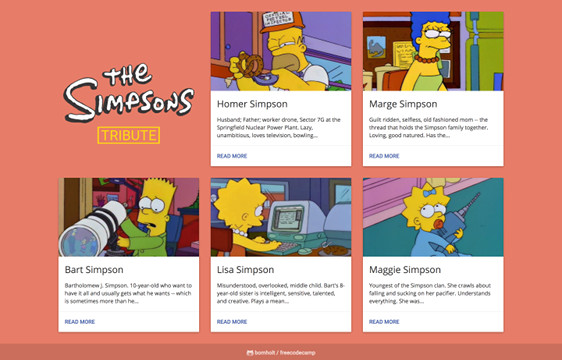
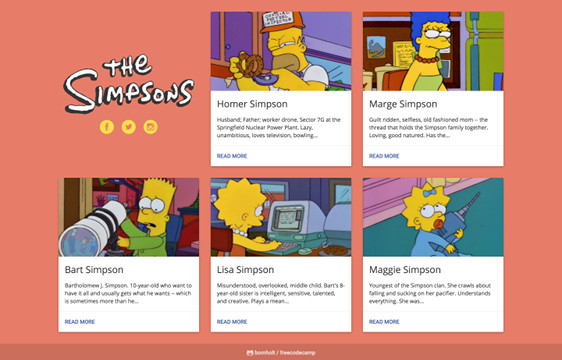
update Tribute Page

Changed region(s): [[0.0907, 0.1528, 0.363, 0.3972]]

diff --git a/basic_front_end_development_projects/tribute_page/index.html b/basic_front_end_development_projects/tribute_page/index.html
@@ -4,8 +4,8 @@
   <meta charset="UTF-8">
   <title>Tribute Page</title>
   <meta name="viewport" content="width=device-width, initial-scale=1, maximum-scale=1, user-scalable=no">
-  <link rel="stylesheet" href="https://rawgit.com/bomholt/freecodecamp/master/_assets/css/font-awesome.min.css">
-  <link rel="stylesheet" href="https://maxcdn.bootstrapcdn.com/bootstrap/3.3.6/css/bootstrap.min.css" integrity="sha384-1q8mTJOASx8j1Au+a5WDVnPi2lkFfwwEAa8hDDdjZlpLegxhjVME1fgjWPGmkzs7" crossorigin="anonymous">
+  <link rel="stylesheet" href="https://rawgit.com/bomholt/fcc/master/_assets/css/font-awesome.min.css">
+  <link rel="stylesheet prefetch" href="https://cdn.jsdelivr.net/bootstrap/3.3.6/css/bootstrap.min.css">
   <link rel="stylesheet" href="style.css">
 </head>
 <body>
@@ -15,7 +15,39 @@
       <!-- The Simpsons -->
       <div class="col-sm-6 col-md-4">
         <div class="duh">
-          <img class="img-responsive" src="https://rawgit.com/bomholt/freecodecamp/master/basic_front_end_development_projects/_assets/img/duh.png">
+          <img class="img-responsive" src="https://rawgit.com/bomholt/fcc/master/basic_front_end_development_projects/_assets/img/duh.png">
+        </div>
+        <div class="social-icons">
+          <ul>
+
+            <!-- Facebook -->
+            <li>
+              <a href="https://www.facebook.com/TheSimpsons" target="_blank" rel="noopener noreferrer">
+                <svg viewbox="0 0 67 67">
+                  <path d="M28.765,50.32h6.744V33.998h4.499l0.596-5.624h-5.095  l0.007-2.816c0-1.466,0.14-2.253,2.244-2.253h2.812V17.68h-4.5c-5.405,0-7.307,2.729-7.307,7.317v3.377h-3.369v5.625h3.369V50.32z   M33,64C16.432,64,3,50.569,3,34S16.432,4,33,4s30,13.431,30,30S49.568,64,33,64z"/>
+                </svg>
+              </a>
+            </li>
+
+            <!-- Twitter -->
+            <li>
+              <a href="https://twitter.com/TheSimpsons" target="_blank" rel="noopener noreferrer">
+                <svg viewbox="0 0 67 67">
+                  <path d="M37.167,22.283c-2.619,0.953-4.274,3.411-4.086,6.101  l0.063,1.038l-1.048-0.127c-3.813-0.487-7.145-2.139-9.974-4.915l-1.383-1.377l-0.356,1.017c-0.754,2.267-0.272,4.661,1.299,6.271  c0.838,0.89,0.649,1.017-0.796,0.487c-0.503-0.169-0.943-0.296-0.985-0.233c-0.146,0.149,0.356,2.076,0.754,2.839  c0.545,1.06,1.655,2.097,2.871,2.712l1.027,0.487l-1.215,0.021c-1.173,0-1.215,0.021-1.089,0.467  c0.419,1.377,2.074,2.839,3.918,3.475l1.299,0.444l-1.131,0.678c-1.676,0.976-3.646,1.526-5.616,1.568  C19.775,43.256,19,43.341,19,43.405c0,0.211,2.557,1.397,4.044,1.864c4.463,1.377,9.765,0.783,13.746-1.568  c2.829-1.673,5.657-5,6.978-8.221c0.713-1.716,1.425-4.851,1.425-6.354c0-0.975,0.063-1.102,1.236-2.267  c0.692-0.678,1.341-1.419,1.467-1.631c0.21-0.403,0.188-0.403-0.88-0.043c-1.781,0.636-2.033,0.551-1.152-0.402  c0.649-0.678,1.425-1.907,1.425-2.267c0-0.063-0.314,0.042-0.671,0.233c-0.377,0.212-1.215,0.53-1.844,0.72l-1.131,0.361l-1.027-0.7  c-0.566-0.381-1.361-0.805-1.781-0.932C39.766,21.902,38.131,21.944,37.167,22.283z M33,64C16.432,64,3,50.569,3,34S16.432,4,33,4  s30,13.431,30,30S49.568,64,33,64z"/>
+                </svg>
+              </a>
+            </li>
+
+            <!-- Instagram -->
+            <li>
+              <a href="https://www.instagram.com/thesimpsonsfox" target="_blank" rel="noopener noreferrer">
+                <svg viewbox="0 0 67 67">
+                  <path d="M42.271,26.578v-0.006c0.502,0,1.005,0.01,1.508-0.002  c0.646-0.017,1.172-0.57,1.172-1.217c0-0.963,0-1.927,0-2.89c0-0.691-0.547-1.24-1.236-1.241c-0.961,0-1.922-0.001-2.883,0  c-0.688,0.001-1.236,0.552-1.236,1.243c-0.001,0.955-0.004,1.91,0.003,2.865c0.001,0.143,0.028,0.291,0.073,0.426  c0.173,0.508,0.639,0.82,1.209,0.823C41.344,26.579,41.808,26.578,42.271,26.578z M33,27.817c-3.384-0.002-6.135,2.721-6.182,6.089  c-0.049,3.46,2.72,6.201,6.04,6.272c3.454,0.074,6.248-2.686,6.321-6.043C39.254,30.675,36.462,27.815,33,27.817z M21.046,31.116  v0.082c0,4.515-0.001,9.03,0,13.545c0,0.649,0.562,1.208,1.212,1.208c7.16,0.001,14.319,0.001,21.479,0  c0.656,0,1.215-0.557,1.215-1.212c0.001-4.509,0-9.02,0-13.528v-0.094h-2.912c0.411,1.313,0.537,2.651,0.376,4.014  c-0.161,1.363-0.601,2.631-1.316,3.803s-1.644,2.145-2.779,2.918c-2.944,2.006-6.821,2.182-9.946,0.428  c-1.579-0.885-2.819-2.12-3.685-3.713c-1.289-2.373-1.495-4.865-0.739-7.451C22.983,31.116,22.021,31.116,21.046,31.116z   M45.205,49.255c0.159-0.026,0.318-0.049,0.475-0.083c1.246-0.265,2.264-1.304,2.508-2.557c0.025-0.137,0.045-0.273,0.067-0.409  V21.794c-0.021-0.133-0.04-0.268-0.065-0.401c-0.268-1.367-1.396-2.428-2.78-2.618c-0.058-0.007-0.113-0.02-0.17-0.03H20.761  c-0.147,0.027-0.296,0.047-0.441,0.08c-1.352,0.308-2.352,1.396-2.545,2.766c-0.008,0.057-0.02,0.114-0.029,0.171V46.24  c0.028,0.154,0.05,0.311,0.085,0.465c0.299,1.322,1.427,2.347,2.77,2.52c0.064,0.008,0.13,0.021,0.195,0.03H45.205z M33,64  C16.432,64,3,50.569,3,34S16.432,4,33,4s30,13.431,30,30S49.568,64,33,64z"/>
+                </svg>
+              </a>
+            </li>
+
+          </ul>
         </div>
       </div>
 
@@ -23,7 +55,7 @@
       <div class="col-sm-6 col-md-4">
         <div class="card">
           <div class="card-image">
-            <img class="img-responsive" src="https://rawgit.com/bomholt/freecodecamp/master/basic_front_end_development_projects/_assets/img/homer_simpson.jpg">
+            <img class="img-responsive" src="https://rawgit.com/bomholt/fcc/master/basic_front_end_development_projects/_assets/img/homer_simpson.jpg">
             <h3>Homer Simpson</h3>
           </div>
           <div class="card-content">
@@ -39,7 +71,7 @@
       <div class="col-sm-6 col-md-4">
         <div class="card">
           <div class="card-image">
-            <img class="img-responsive" src="https://rawgit.com/bomholt/freecodecamp/master/basic_front_end_development_projects/_assets/img/marge_simpson.jpg">
+            <img class="img-responsive" src="https://rawgit.com/bomholt/fcc/master/basic_front_end_development_projects/_assets/img/marge_simpson.jpg">
             <h3>Marge Simpson</h3>
           </div>
           <div class="card-content">
@@ -55,7 +87,7 @@
       <div class="col-sm-6 col-md-4">
         <div class="card">
           <div class="card-image">
-            <img class="img-responsive" src="https://rawgit.com/bomholt/freecodecamp/master/basic_front_end_development_projects/_assets/img/bart_simpson.jpg">
+            <img class="img-responsive" src="https://rawgit.com/bomholt/fcc/master/basic_front_end_development_projects/_assets/img/bart_simpson.jpg">
             <h3>Bart Simpson</h3>
           </div>
           <div class="card-content">
@@ -71,7 +103,7 @@
       <div class="col-sm-6 col-md-4">
         <div class="card">
           <div class="card-image">
-            <img class="img-responsive" src="https://rawgit.com/bomholt/freecodecamp/master/basic_front_end_development_projects/_assets/img/lisa_simpson.jpg">
+            <img class="img-responsive" src="https://rawgit.com/bomholt/fcc/master/basic_front_end_development_projects/_assets/img/lisa_simpson.jpg">
             <h3>Lisa Simpson</h3>
           </div>
           <div class="card-content">
@@ -87,7 +119,7 @@
       <div class="col-sm-6 col-md-4">
         <div class="card">
           <div class="card-image">
-            <img class="img-responsive" src="https://rawgit.com/bomholt/freecodecamp/master/basic_front_end_development_projects/_assets/img/maggie_simpson.jpg">
+            <img class="img-responsive" src="https://rawgit.com/bomholt/fcc/master/basic_front_end_development_projects/_assets/img/maggie_simpson.jpg">
             <h3>Maggie Simpson</h3>
           </div>
           <div class="card-content">
@@ -102,11 +134,11 @@
     </div>
   </div>
 
+  <!-- Footer -->
   <footer>
-    <div class="container text-center">
-      <a href="https://github.com/bomholt/freecodecamp" target="_blank" rel="noopener noreferrer"><i class="fa fa-github-alt fa-lg"></i> bomholt / freecodecamp</a>
+    <div class="container">
+      <a href="https://github.com/bomholt/fcc" target="_blank" rel="noopener noreferrer"><i class="fa fa-github-alt fa-lg"></i> bomholt / fcc</a>
     </div>
   </footer>
-
 </body>
 </html>

diff --git a/basic_front_end_development_projects/tribute_page/style.css b/basic_front_end_development_projects/tribute_page/style.css
@@ -1,5 +1,4 @@
-@import url(https://fonts.googleapis.com/css?family=Open+Sans);
-@import url(https://fonts.googleapis.com/css?family=Roboto:500);
+@import url("https://fonts.googleapis.com/css?family=Open+Sans|Roboto:500");
 html {
   min-height: 100%;
   position: relative;
@@ -8,6 +7,12 @@ body {
   background-color: #e77d68;
   margin-bottom: 42px;
 }
+@media (min-width: 768px) {
+  body {
+    margin-bottom: 57px;
+    margin-top: 15px;
+  }
+}
 a:focus, a:hover, a:visited {
   text-decoration: none;
 }
@@ -15,12 +20,49 @@ a:focus, a:hover, a:visited {
   background-clip: padding-box;
   background-color: transparent;
   box-sizing: border-box;
-  margin: 42px auto;
+  margin: 42px auto 0;
   max-width: 420px;
+}
+@media (min-width: 768px) {
+  .duh {
+    margin-top: 110px;
+  }
 }
 .duh img {
   background-clip: padding-box;
   position: relative;
+}
+.social-icons {
+  text-align: center;
+  margin-bottom: 57px;
+}
+@media (min-width: 768px) {
+  .social-icons {
+    margin-bottom: 0;
+  }
+}
+.social-icons ul {
+  font-size: 0;
+  list-style: none;
+  margin: 0 auto;
+  padding: 0;
+}
+.social-icons ul li {
+  display: inline;
+  padding: 0 8px;
+}
+.social-icons ul li a {
+  color: #fade4b;
+  fill: #fade4b;
+}
+.social-icons ul li a svg {
+  position: relative;
+  height: 40px;
+  width: 40px;
+}
+.social-icons ul li a svg:hover {
+  -webkit-transform: scale(1.2);
+          transform: scale(1.2);
 }
 .card {
   background-clip: padding-box;
@@ -75,6 +117,7 @@ footer {
   height: 42px;
   position: absolute;
   width: 100%;
+  text-align: center;
 }
 footer a {
   color: #f2dbd6;
@@ -93,13 +136,4 @@ footer a:visited {
 }
 footer a i {
   vertical-align: text-top;
-}
-@media (min-width: 768px) {
-  .duh {
-    margin-top: 130px;
-  }
-  body {
-    margin-bottom: 57px;
-    margin-top: 15px;
-  }
 }

diff --git a/basic_front_end_development_projects/tribute_page/style.sass b/basic_front_end_development_projects/tribute_page/style.sass
@@ -1,5 +1,4 @@
-@import url(https://fonts.googleapis.com/css?family=Open+Sans)
-@import url(https://fonts.googleapis.com/css?family=Roboto:500)
+@import url("https://fonts.googleapis.com/css?family=Open+Sans|Roboto:500")
 
 html
   min-height: 100%
@@ -8,6 +7,9 @@ html
 body
   background-color: #e77d68
   margin-bottom: 42px
+  @media (min-width: 768px)
+    margin-bottom: 57px
+    margin-top: 15px
 
 a:focus, a:hover, a:visited
   text-decoration: none
@@ -16,12 +18,41 @@ a:focus, a:hover, a:visited
   background-clip: padding-box
   background-color: transparent
   box-sizing: border-box
-  margin: 42px auto
+  margin: 42px auto 0
   max-width: 420px
+  @media (min-width: 768px)
+    margin-top: 110px
 
   img
     background-clip: padding-box
     position: relative
+
+.social-icons
+  text-align: center
+  margin-bottom: 57px
+  @media (min-width: 768px)
+    margin-bottom: 0
+
+  ul
+    font-size: 0
+    list-style: none
+    margin: 0 auto
+    padding: 0
+
+    li
+      display: inline
+      padding: 0 8px
+
+      a
+        color: #fade4b
+        fill: #fade4b
+
+        svg
+          position: relative
+          height: 40px
+          width: 40px
+          &:hover
+            transform: scale(1.2)
 
 .card
   background-clip: padding-box
@@ -75,6 +106,7 @@ footer
   height: 42px
   position: absolute
   width: 100%
+  text-align: center
 
   a
     color: #f2dbd6
@@ -90,12 +122,3 @@ footer
 
     i
       vertical-align: text-top
-
-@media (min-width: 768px)
-
-  .duh
-    margin-top: 130px
-
-  body
-    margin-bottom: 57px
-    margin-top: 15px
